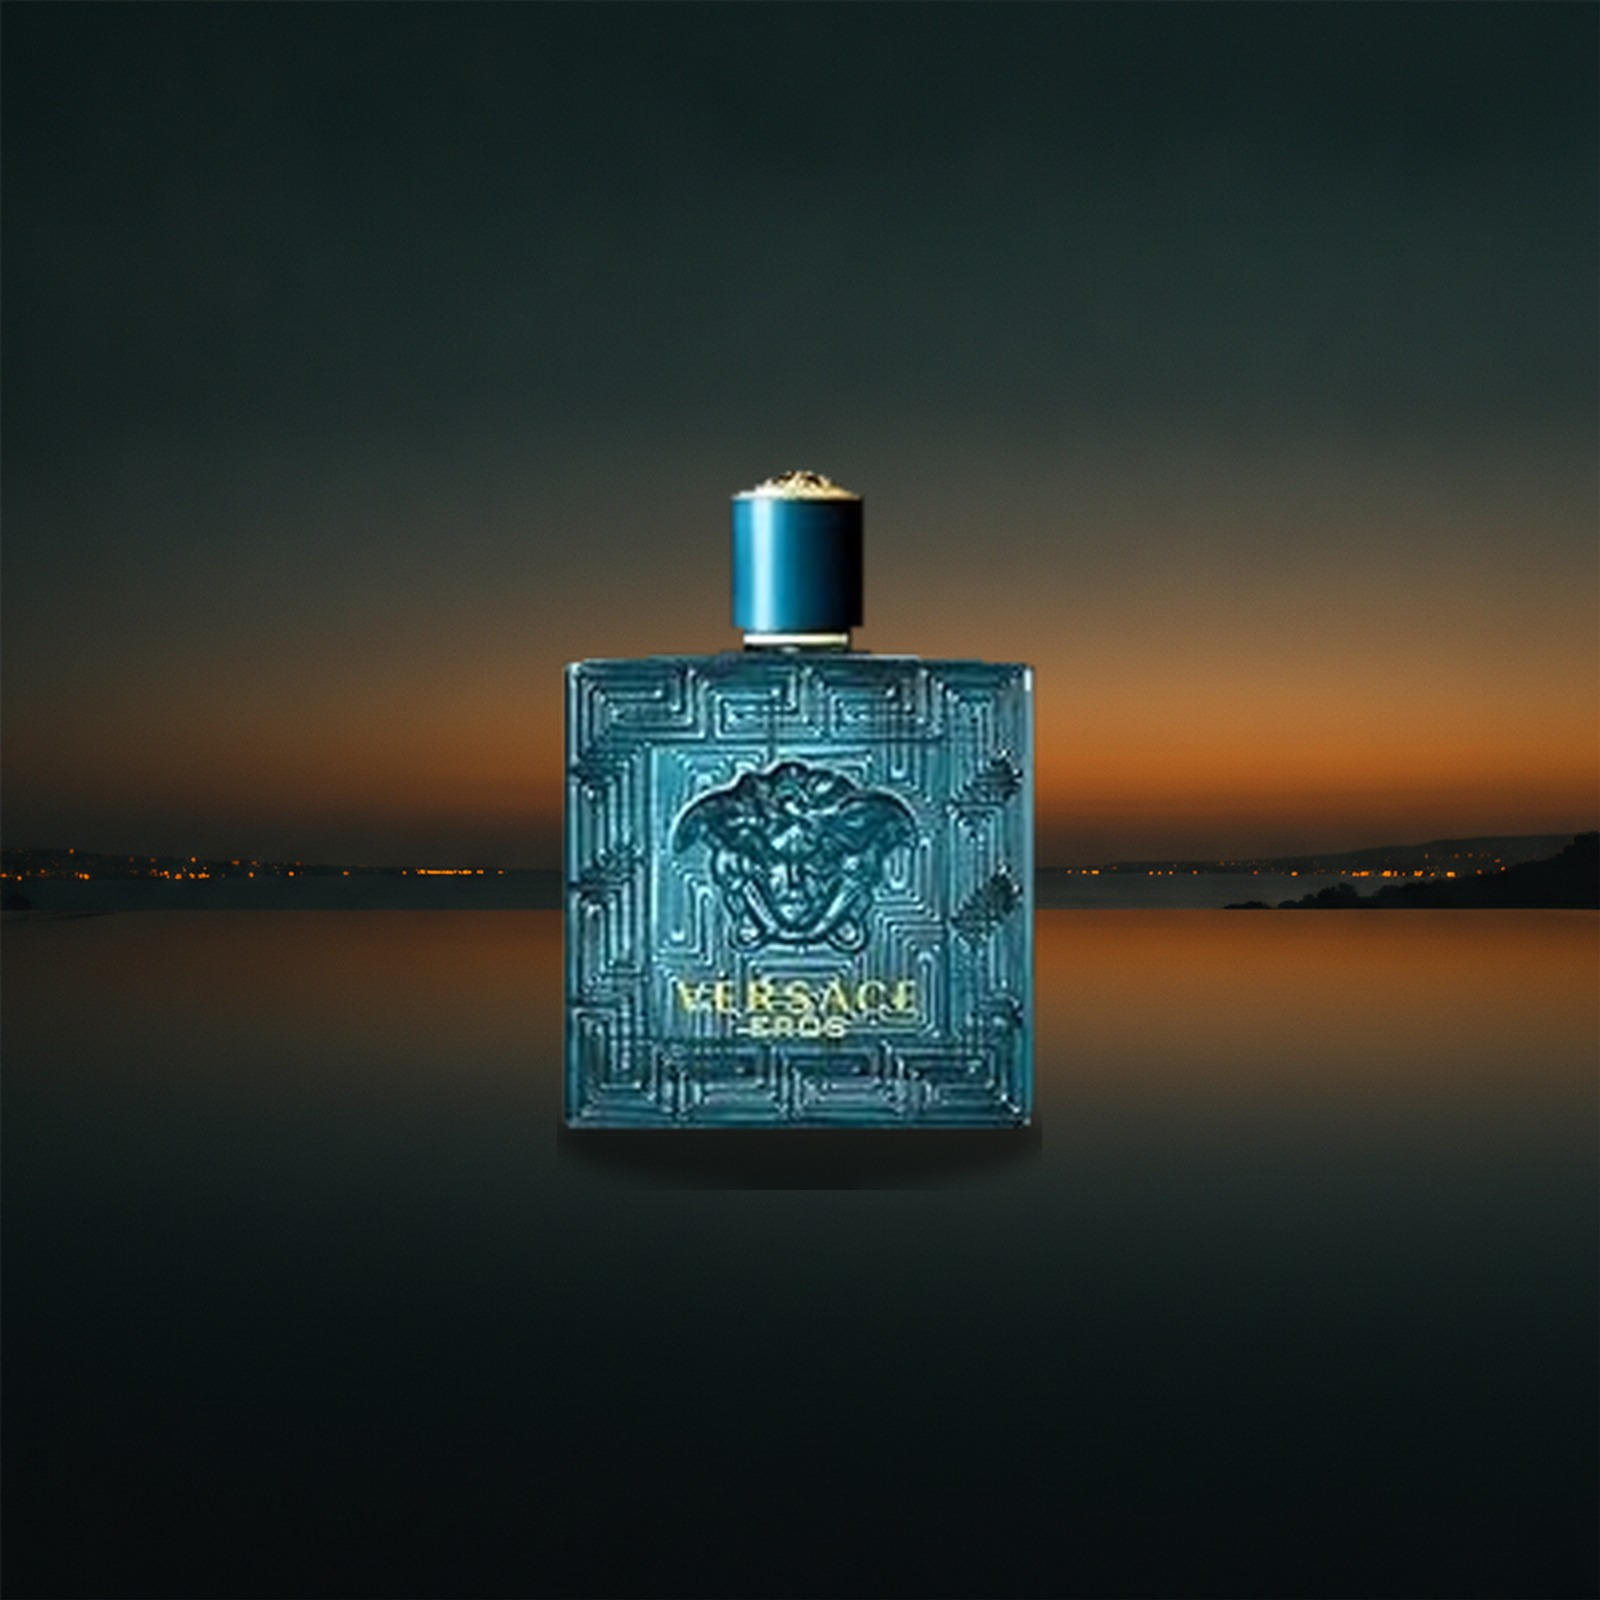
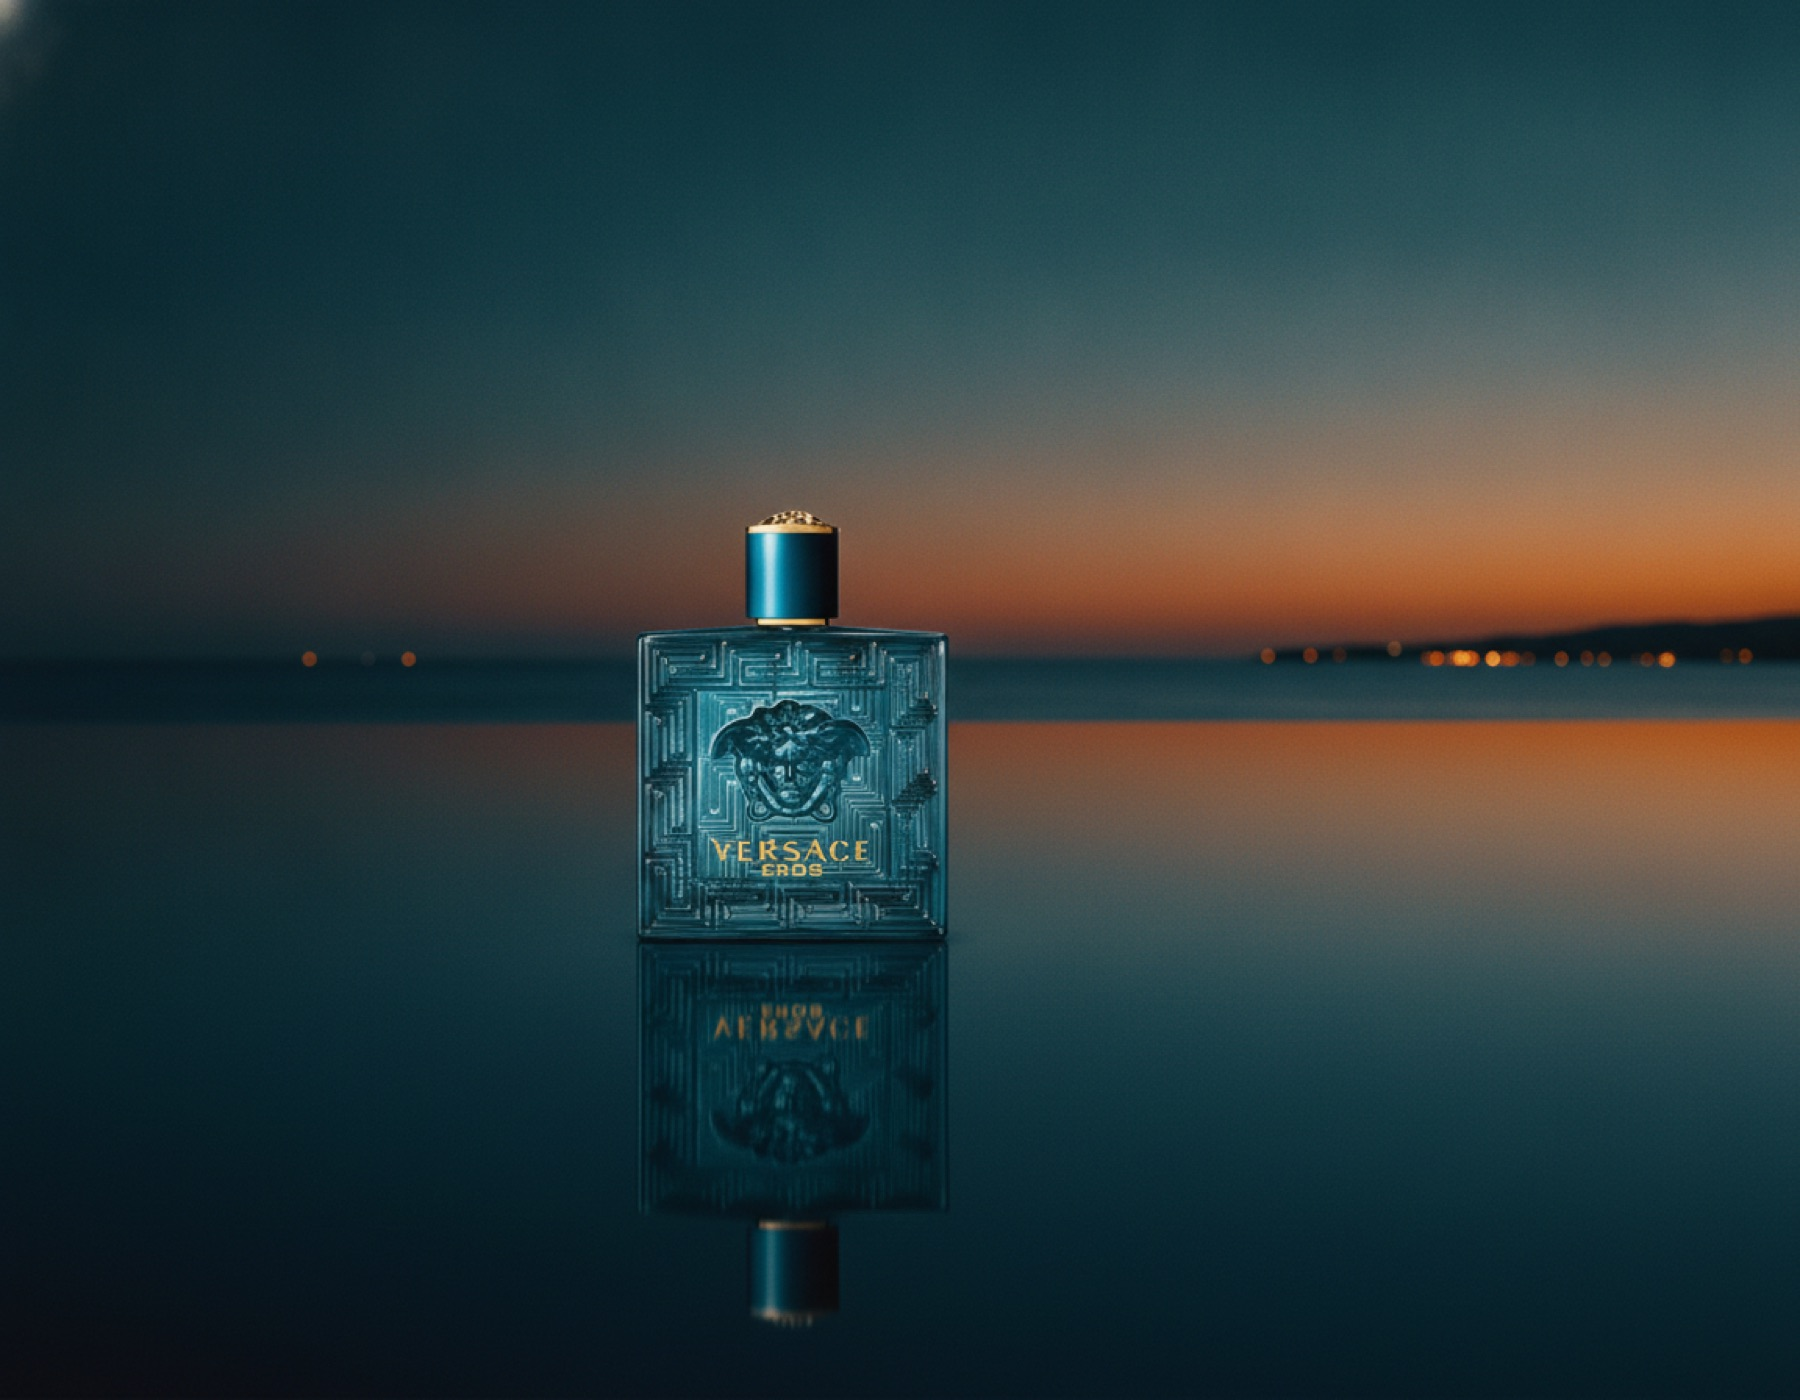
Show newsletter popup every visit; sharpen Versace Eros promo image
- Removed the localStorage 'seen' persistence from newsletter-popup.js
  per request - it now shows 7s after landing on any page, every time,
  instead of only once per device
- Replaced the blurry versace-eros.jpg promo banner: re-rendered from
  the actual accurate product photo (not generated from scratch) so
  the bottle shape, Greek-key embossing, Medusa medallion, and
  'VERSACE EROS' text are all correct and sharp, set against a
  cinematic sunset/reflection background matching the other promo
  slides

diff --git a/newsletter-popup.js b/newsletter-popup.js
@@ -1,17 +1,6 @@
 // Newsletter popup - shared across every page.
-// Shows once, 7 seconds after the site is first opened (whichever page
-// that happens to be), then remembers via localStorage so it never shows
-// again on that device, whether closed or subscribed to.
+// Shows 7 seconds after landing on any page, every time someone visits.
 (function () {
-  const STORAGE_KEY = 'bkNewsletterPopupSeen';
-  let alreadySeen = false;
-  try { alreadySeen = !!localStorage.getItem(STORAGE_KEY); } catch (e) {}
-  if (alreadySeen) return;
-
-  function markSeen() {
-    try { localStorage.setItem(STORAGE_KEY, '1'); } catch (e) {}
-  }
-
   function buildPopup() {
     const overlay = document.createElement('div');
     overlay.className = 'popup-overlay';
@@ -46,7 +35,6 @@
 
     function close() {
       overlay.hidden = true;
-      markSeen();
     }
 
     closeBtn.addEventListener('click', close);
@@ -63,13 +51,11 @@
         <p class="popup-kicker kicker">Ofertă exclusivă</p>
         <p class="popup-confirm">Mulțumim! Vei fi primul care află despre ofertele noastre.</p>
       `;
-      markSeen();
       setTimeout(close, 2200);
     });
 
     setTimeout(() => {
       overlay.hidden = false;
-      markSeen();
     }, 7000);
   }
 
